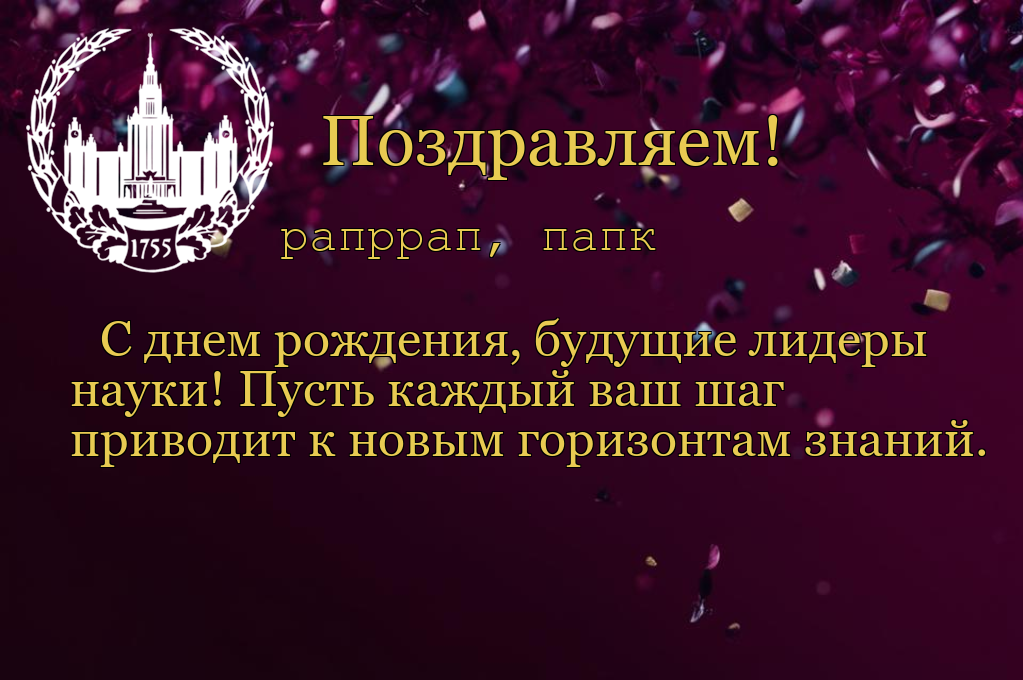
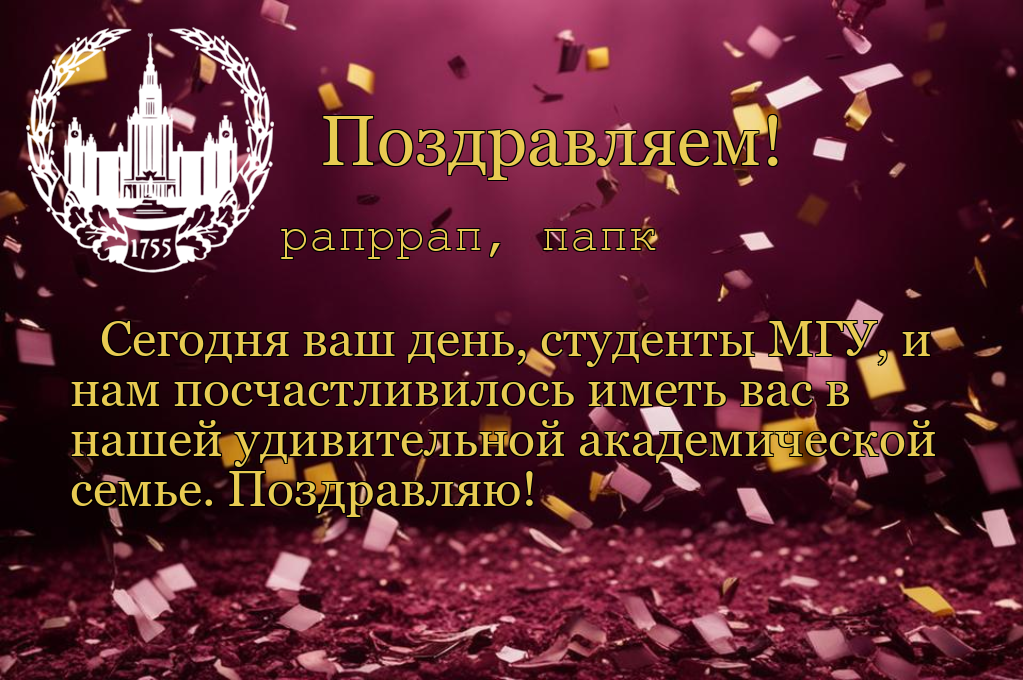
вап

diff --git a/utils.py b/utils.py
@@ -21,10 +21,7 @@ async def delete_message(chat_id, message_id, delay_seconds, app):
 
 def get_contrast_color(background_color):
     brightness = sum(background_color) / 3
-    return 1 if brightness < 128 else 2
-
-def get_contrast_logo(color_index):
-    return config.LOGO_WHITE if color_index == 1 else config.LOGO_BLACK
+    return "#E8CB52" if brightness < 128 else "#A60B38"
 
 async def make_image():
     im = Image.open(await random_pic()) 
@@ -32,13 +29,24 @@ async def make_image():
 
     # Цвет текста на основе контраста
     background_color = im.getpixel((100, 250))
-    color_index = get_contrast_color(background_color)
-    if (color_index == 1): text_color = "#E8CB52"
-    else: text_color = "#A60B38"
+    text_color = get_contrast_color(background_color)
 
     # Вотермарка
-    watermark = Image.open(get_contrast_logo(color_index)).convert("RGBA")
+    watermark_color = "#E8CB52"  
+    if text_color == "#A60B38":
+        watermark_color = "#A60B38" 
+
+    watermark = Image.open(BytesIO(config.LOGO_WHITE))  
+    watermark = watermark.convert("RGBA")
     watermark = watermark.resize((250, 250))
+    watermark.putalpha(128)  
+
+    if text_color == "#A60B38":
+        watermark = Image.open(BytesIO(config.LOGO_BLACK))  
+        watermark = watermark.convert("RGBA")
+        watermark = watermark.resize((250, 250))
+        watermark.putalpha(128)  
+
     im.paste(watermark, (25, 25), watermark)
 
     # Текст
